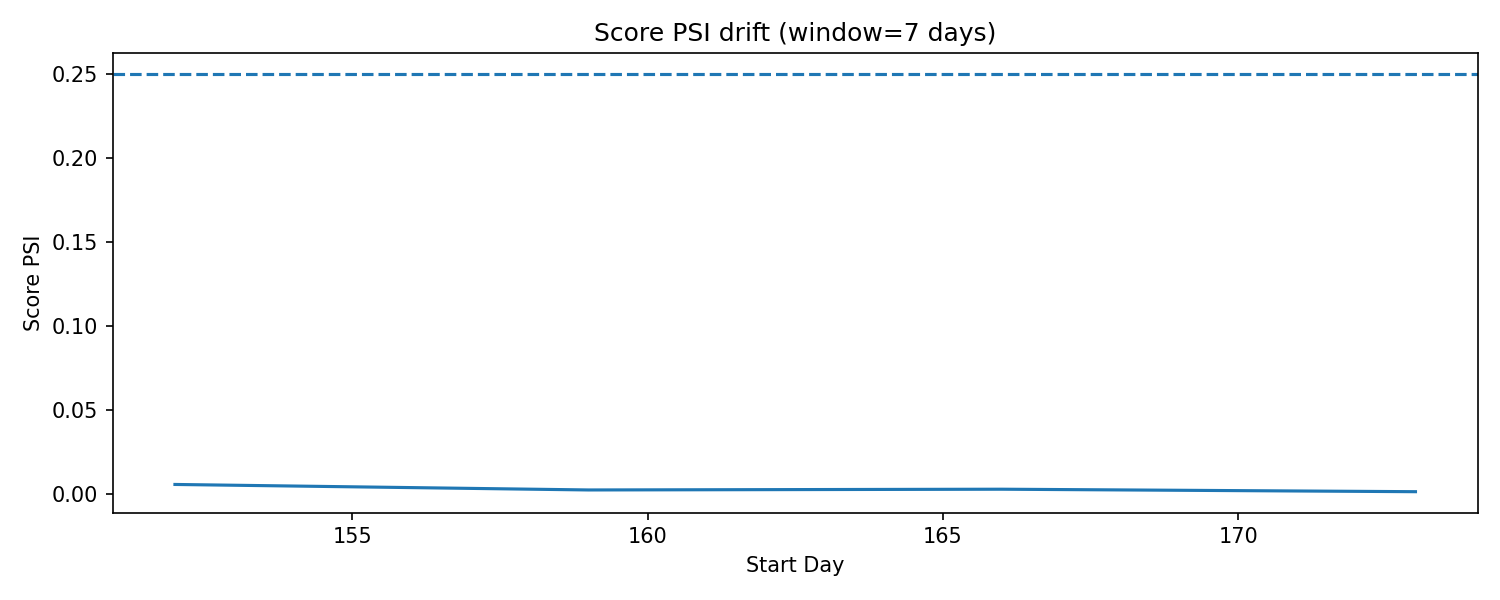
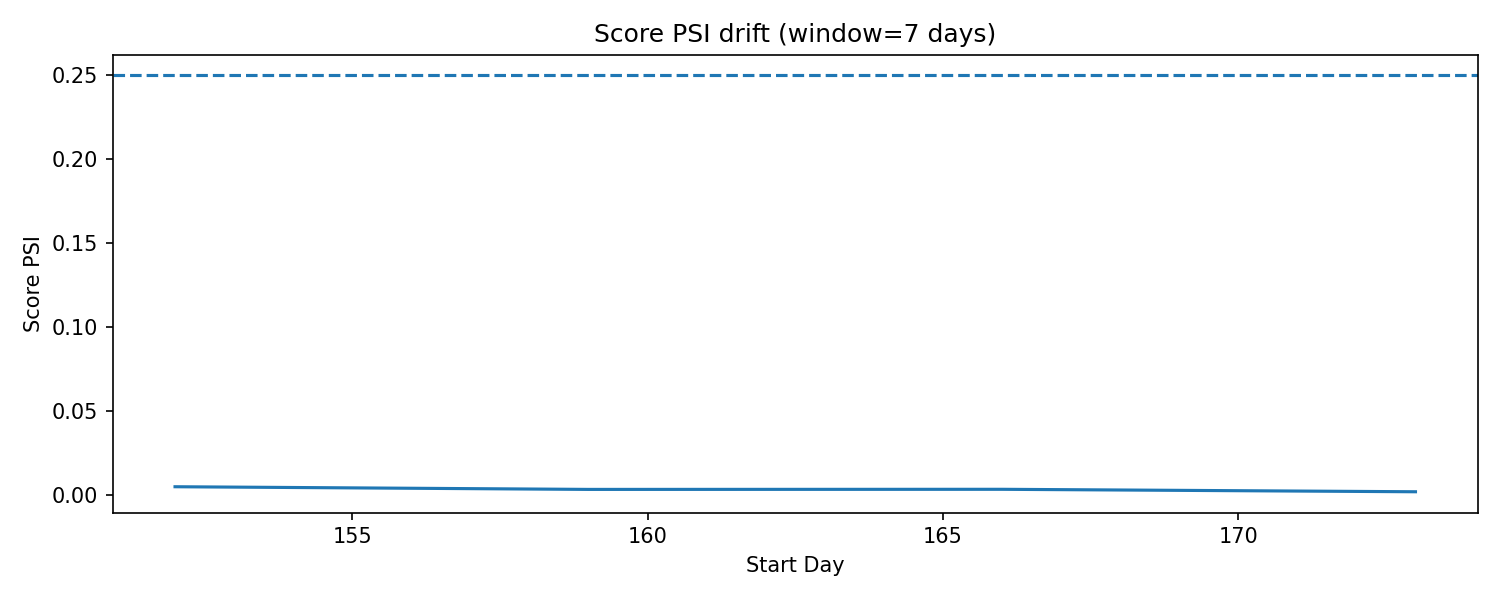
Fix monitoring PSI reference window

diff --git a/src/07_monitoring_pack.py b/src/07_monitoring_pack.py
@@ -15,12 +15,18 @@ from .utils.io import ensure_dir
 def psi(expected, actual, bins=10, eps=1e-6):
 	expected = np.asarray(expected,dtype=float)
 	actual = np.asarray(actual, dtype=float)
+	expected = expected[np.isfinite(expected)]
+	actual = actual[np.isfinite(actual)]
+	if len(expected) == 0 or len(actual) == 0:
+		return 0.0
 
 	qs = np.linspace(0,1, bins + 1)
 	cuts = np.quantile(expected, qs)
 	cuts = np.unique(cuts)
 	if len(cuts) < 3: # degenerate
 		return 0.0
+	cuts[0] = -np.inf
+	cuts[-1] = np.inf
 	
 	e_hist, _ = np.histogram(expected,bins=cuts)
 	a_hist, _ = np.histogram(actual, bins=cuts)
@@ -32,6 +38,21 @@ def psi(expected, actual, bins=10, eps=1e-6):
 	a = np.clip(a,eps,None)
 
 	return float(np.sum((a - e) * np.log(a/e)))
+
+def fill_with_reference_median(expected, actual):
+	expected = np.asarray(expected, dtype=float)
+	actual = np.asarray(actual, dtype=float)
+	median = np.nanmedian(expected)
+	if not np.isfinite(median):
+		median = 0.0
+	return np.nan_to_num(expected, nan=median), np.nan_to_num(actual, nan=median)
+
+def build_monitor_frame(scored, df, keep_cols, id_col):
+	joined = scored[[id_col, "score"]].merge(df[keep_cols], on=id_col, how="left", validate="one_to_one")
+	joined["time_day"] = pd.to_numeric(joined["time_day"], errors="coerce")
+	joined = joined.dropna(subset=["time_day"]).copy()
+	joined["time_day"] = joined["time_day"].astype(int)
+	return joined
 
 def main():
 	cfg = load_config()
@@ -50,6 +71,8 @@ def main():
 	if not scored_path.exists():
 		raise FileNotFoundError(f"missing: {scored_path}")
 	scored = pd.read_csv(scored_path)
+	ref_scored_path = out_dir/"scored_valid.csv"
+	ref_scored = pd.read_csv(ref_scored_path) if ref_scored_path.exists() else None
 
 	table_path = cfg.processed_dir/"model_table_fe.parquet"
 	df = pd.read_parquet(table_path)
@@ -63,20 +86,15 @@ def main():
 	feat_cols = [c for c in df.columns if c not in drop_cols]
 	numeric_feats = [c for c in feat_cols if is_numeric_dtype(df[c])]
 	numeric_feats = [c for c in numeric_feats if c != "time_day"]
-	psi_thr = 0.25
-	windows = [7,14,30]
-	topk = 30
+	psi_thr = cfg.monitoring.psi_threshold
+	windows = cfg.monitoring.drift_windows_days
+	topk = cfg.monitoring.top_features_for_psi
 
 	# Merge
 	keep_cols = [id_col, "time_day"] + numeric_feats
-	joined = scored[[id_col, "score"]].merge(df[keep_cols], on=id_col, how="left", validate="one_to_one")
+	joined = build_monitor_frame(scored, df, keep_cols, id_col)
 
-	# Enforce time_day numeric scalar and drop missing merges
-	joined["time_day"] = pd.to_numeric(joined["time_day"], errors="coerce")
-	joined = joined.dropna(subset=["time_day"]).copy()
-	joined["time_day"] = joined["time_day"].astype(int)
-
-	# define reference window as earliest window in test set
+	# Use OOT validation as the stable reference when available, then monitor OOT test windows.
 	tmin = int(joined["time_day"].min())
 	tmax = int(joined["time_day"].max())
 
@@ -89,19 +107,29 @@ def main():
 	drift_rows = []
 	psi_rows = []
 
-	ref_start = tmin
-	ref_end = tmin + max(windows)
-	ref = joined[(joined["time_day"] >= ref_start) & (joined["time_day"] < ref_end)].copy()
-	if len(ref) < 1000:
+	if ref_scored is not None:
+		ref = build_monitor_frame(ref_scored, df, keep_cols, id_col)
+		ref_start = int(ref["time_day"].min())
+		ref_end = int(ref["time_day"].max()) + 1
+		ref_source = "scored_valid.csv"
+		actual_start = tmin
+	else:
+		ref_start = tmin
+		ref_end = tmin + max(windows)
+		ref = joined[(joined["time_day"] >= ref_start) & (joined["time_day"] < ref_end)].copy()
 		# fallback: first 10% of data by time_day
-		cutoff = np.quantile(joined["time_day"], 0.1)
-		ref = joined[joined["time_day"] <= cutoff].copy()
+		if len(ref) < 1000:
+			cutoff = np.quantile(joined["time_day"], 0.1)
+			ref = joined[joined["time_day"] <= cutoff].copy()
+			ref_end = int(ref["time_day"].max()) + 1
+		ref_source = "first_test_window"
+		actual_start = ref_end
 		
 	ref_score = ref["score"].to_numpy()
 
 	# For each window size, cuompute PSI on score and on features for later windows
 	for w in windows:
-		start = tmin
+		start = actual_start
 		step = 1
 		while start + w <= tmax + 1:
 			win = joined[(joined["time_day"] >= start) & (joined["time_day"] < start + w)]
@@ -126,8 +154,7 @@ def main():
 				a = win[f].to_numpy()
 				e = ref[f].to_numpy()
 				# handle NaN
-				e = np.nan_to_num(e, nan = np.nanmedian(e))
-				a = np.nan_to_num(a, nan = np.nanmedian(e))
+				e, a = fill_with_reference_median(e, a)
 				p = psi(e, a, bins=10)
 				psi_rows.append({
 					"window_days": w,
@@ -171,11 +198,13 @@ def main():
 
 
 	spec = {
-		"reference_window": {"start_day": int(ref_start), "end_day": int(ref_end), "n": int(len(ref))},
+		"reference_window": {"source": ref_source, "start_day": int(ref_start), "end_day": int(ref_end), "n": int(len(ref))},
+		"actual_window_source": "scored_test.csv",
 		"psi_threshold": psi_thr,
 		"window_days": windows,
 		"top_features_for_psi": topk,
-		"notes": "PSI computed using quantile bins from reference distribution."
+		"score_shift_alert": cfg.monitoring.score_shift_alert,
+		"notes": "PSI uses quantile bins from the reference distribution, with open-ended tails for actual values outside the reference range."
 	}
 	with open(mon_dir/"monitoring_spec.json", "w", encoding="utf-8") as f:
 		json.dump(spec,f,indent=2)

diff --git a/tests/test_monitoring_utils.py b/tests/test_monitoring_utils.py
@@ -1,0 +1,23 @@
+import importlib
+import importlib.util
+import unittest
+
+import numpy as np
+
+for dependency in ["pandas", "matplotlib"]:
+	if importlib.util.find_spec(dependency) is None:
+		raise unittest.SkipTest(f"{dependency} is not installed in this interpreter")
+
+monitoring = importlib.import_module("src.07_monitoring_pack")
+
+
+class MonitoringUtilsTest(unittest.TestCase):
+	def test_psi_counts_actual_values_outside_reference_range(self):
+		expected = np.array([0.1, 0.2, 0.3, 0.4, 0.5])
+		actual = np.array([2.0, 2.1, 2.2, 2.3, 2.4])
+
+		self.assertGreater(monitoring.psi(expected, actual, bins=5), 0.0)
+
+
+if __name__ == "__main__":
+	unittest.main()